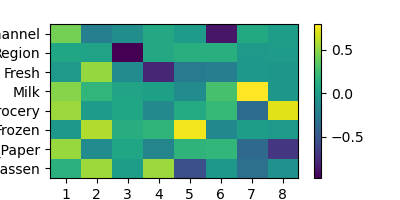
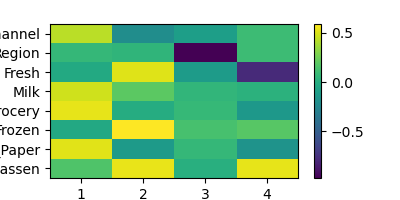
PCA done

diff --git a/mainVentas.py b/mainVentas.py
@@ -5,6 +5,7 @@ from sklearn.decomposition import PCA
 import numpy as np
 from sklearn.preprocessing import StandardScaler
 import matplotlib.pyplot as plt
+
 # Limpieza e introducción al sistema inteligente del GNG del conjunto de datos: Clientes de ventas al por mayor
 
 
@@ -32,19 +33,24 @@ standarizeddf = pd.DataFrame(data = x, columns = features1)
 
 
 # Analisis componentes principales con todas las columnas
-pca = PCA(n_components=None)
+
+pca = PCA(n_components=4)
 principal_componentes = pca.fit(x)
+Xpca=pca.transform(x)
+# print("Shape datos estandarizados", x.shape)
+# print("Shape datos con PCA",Xpca.shape)
+
 dfPCA= pd.DataFrame(
     data    = principal_componentes.components_,
     columns = df.columns,
-    index   = ['PC1', 'PC2', 'PC3', 'PC4','PC5', 'PC6', 'PC7', 'PC8']
+    index   = ['PC1','PC2','PC3','PC4']
 )
 # Mapa de calor para analizar el peso de cada variable por componente
 fig, ax = plt.subplots(nrows=1, ncols=1, figsize=(4, 2))
 componentes = principal_componentes.components_
 plt.imshow(componentes.T, cmap='viridis', aspect='auto')
-plt.yticks(range(len(standarizeddf.columns)),standarizeddf.columns)
-plt.xticks(range(len(standarizeddf.columns)), np.arange(principal_componentes.n_components_) + 1)
+plt.yticks(range(len(standarizeddf.columns)), standarizeddf.columns)
+plt.xticks(range(4), np.arange(principal_componentes.n_components_) + 1)
 plt.grid(False)
 plt.colorbar()
 plt.savefig("heatMapPrincipalComponents.png")
@@ -53,16 +59,36 @@ plt.close()
 #principalDf = pd.DataFrame(data = principal_componentes ,columns = ['principal component 1', 'principal component 2', 'principal component 3', 'principal component 4'])
 
 
+# Analisis dataset sin tener en cuenta "Región" y "Canal"
 #
-#
-# df.drop("Region", axis=1, inplace=True)
-# df.drop("Channel", axis=1, inplace=True)
-#
-# features2 = list(df.columns)
-#
-# trainx2 = df.loc[:351,features2].values
-# predictx2 = df.loc[351:, features2].values
+df.drop("Region", axis=1, inplace=True)
+df.drop("Channel", axis=1, inplace=True)
 
+features2 = list(df.columns)
+
+trainx2 = df.loc[:351,features2].values
+predictx2 = df.loc[351:, features2].values
+
+x2 = StandardScaler().fit_transform(trainx2)
+standarizeddf2 = pd.DataFrame(data = x2, columns = features2)
+standarizeddfmS2=standarizeddf2.describe().loc[['mean','std']]
+print(standarizeddfmS2)
+
+pca = PCA(n_components=4)
+principal_componentes2 = pca.fit(x2)
+Xpca2=pca.transform(x2)
+print("Shape datos estandarizados", x2.shape)
+print("Shape datos con PCA",Xpca2.shape)
+
+fig, ax = plt.subplots(nrows=1, ncols=1, figsize=(4, 2))
+componentes = principal_componentes2.components_
+plt.imshow(componentes.T, cmap='viridis', aspect='auto')
+plt.yticks(range(len(standarizeddf2.columns)), standarizeddf2.columns)
+plt.xticks(range(4), np.arange(principal_componentes2.n_components_) + 1)
+plt.grid(False)
+plt.colorbar()
+plt.savefig("heatMapPrincipalComponents2.png")
+plt.close()
 
 #
 # training_set = tf.constant(trainx1, dtype=tf.float32)
